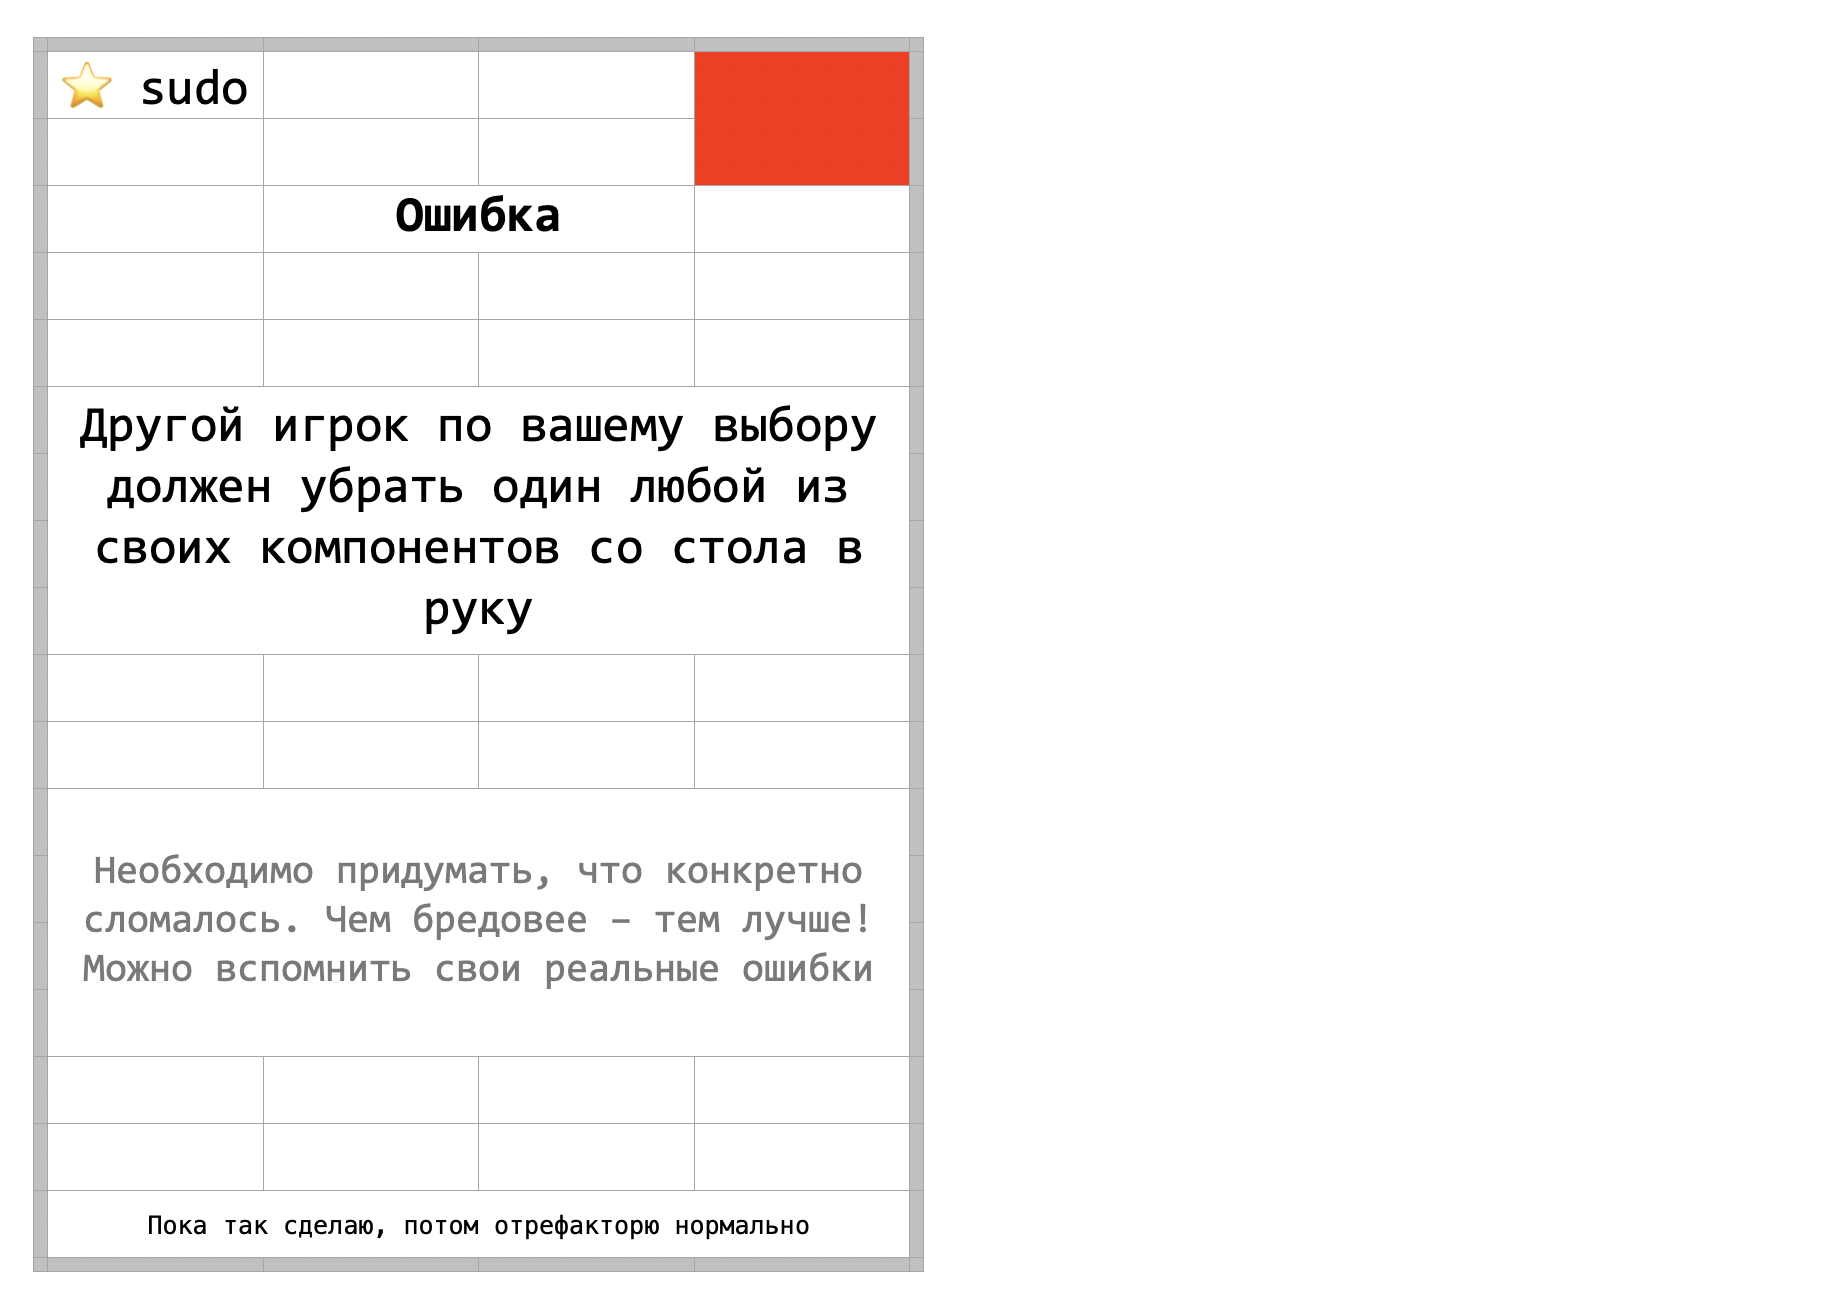
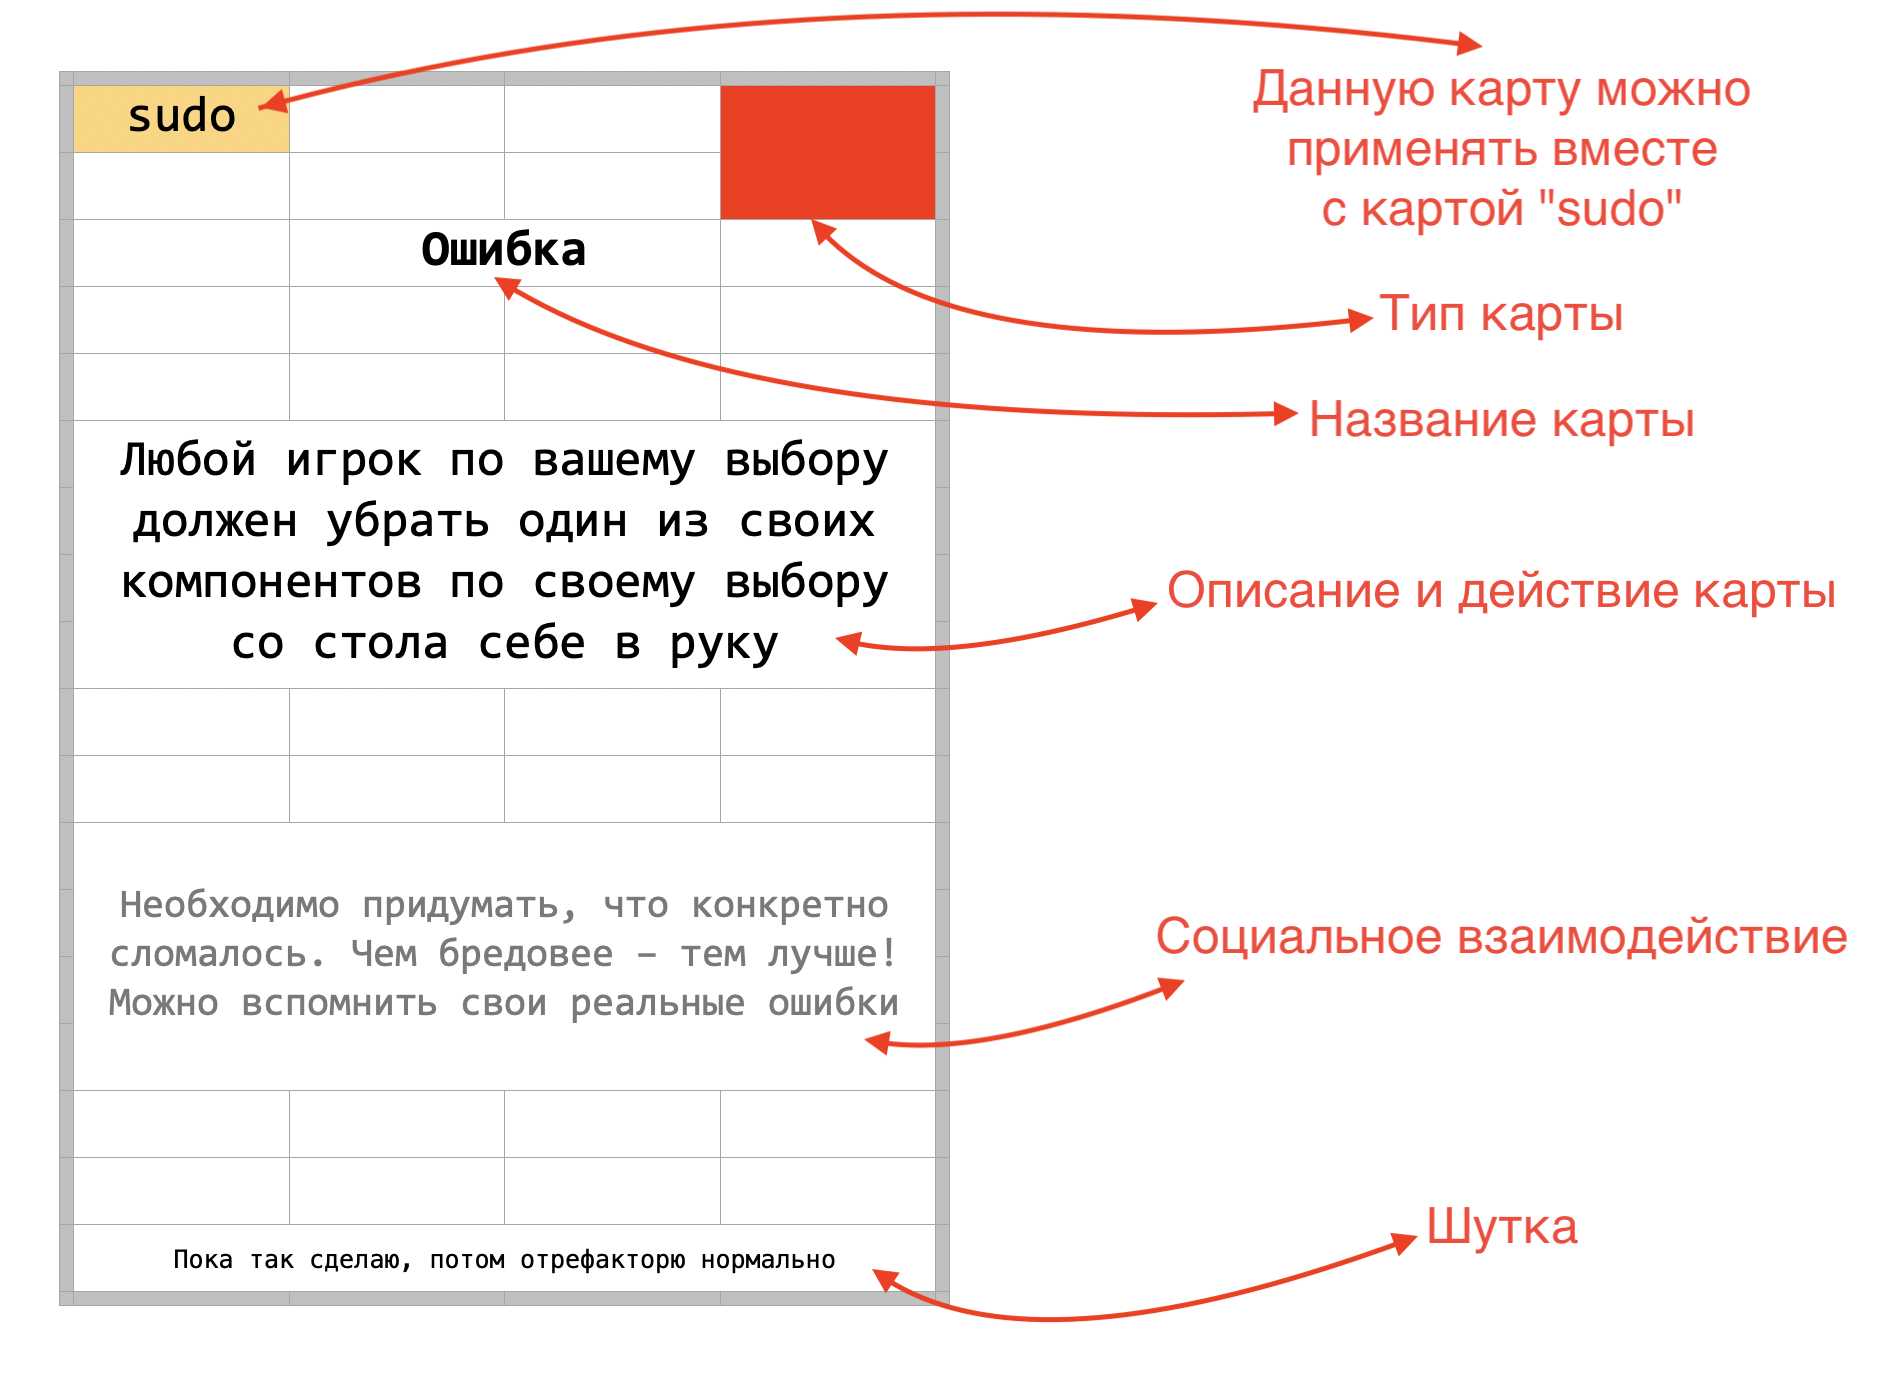
Add card example

diff --git a/ru/rules.md b/ru/rules.md
@@ -24,6 +24,19 @@
 При 2х игроках: возьмите по 6 карт
 При 3x или 4x игроках: возьмите по 7 карт
 
+## Карты
+
+![пример карты](https://raw.githubusercontent.com/sobolevn/ship-it-boardgame/master/ru/card-example.png)
+
+Карты бывают следующи типов:
+- Архитектура = белые
+- Компоненты = фиолетовые
+- Добор = зеленые
+- Атака = красные
+- Защита = синие
+- Мета = золотые
+- События = темно-серые
+
 ## Ход игры
 
 В начале каждого хода необходимо взять карту из колоды.
